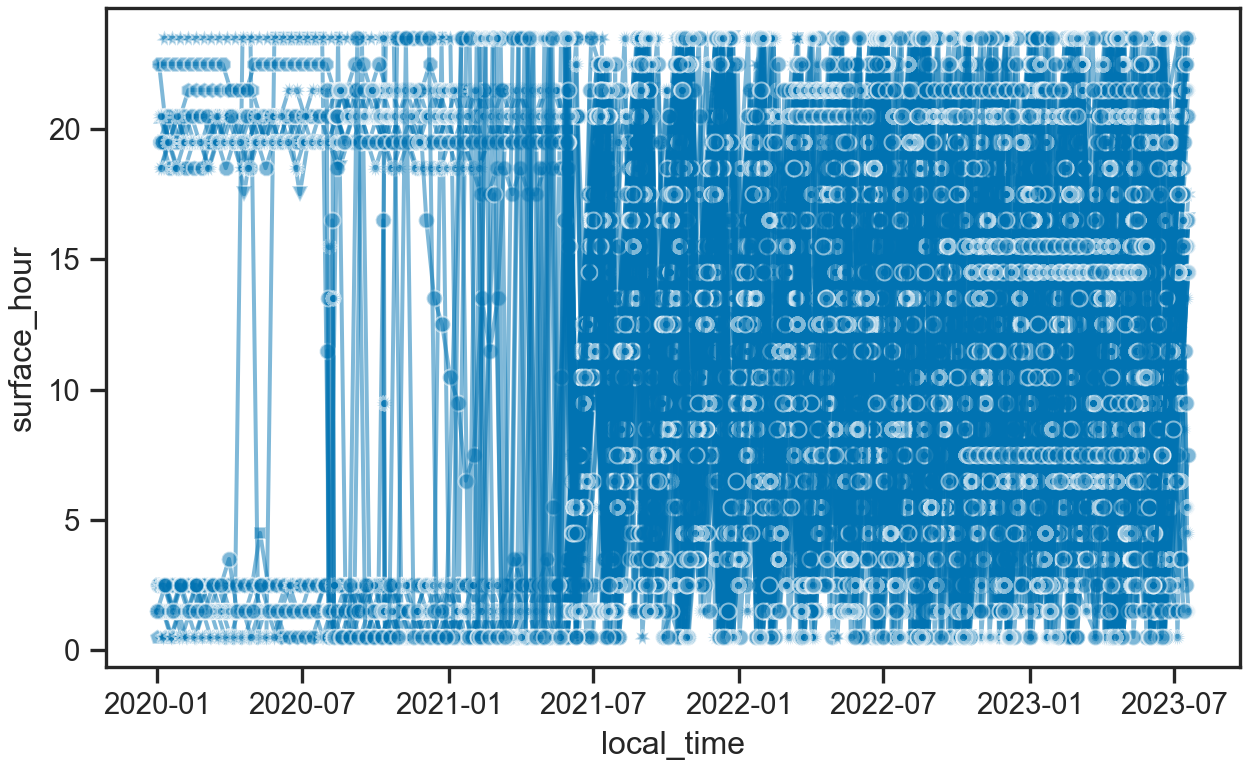
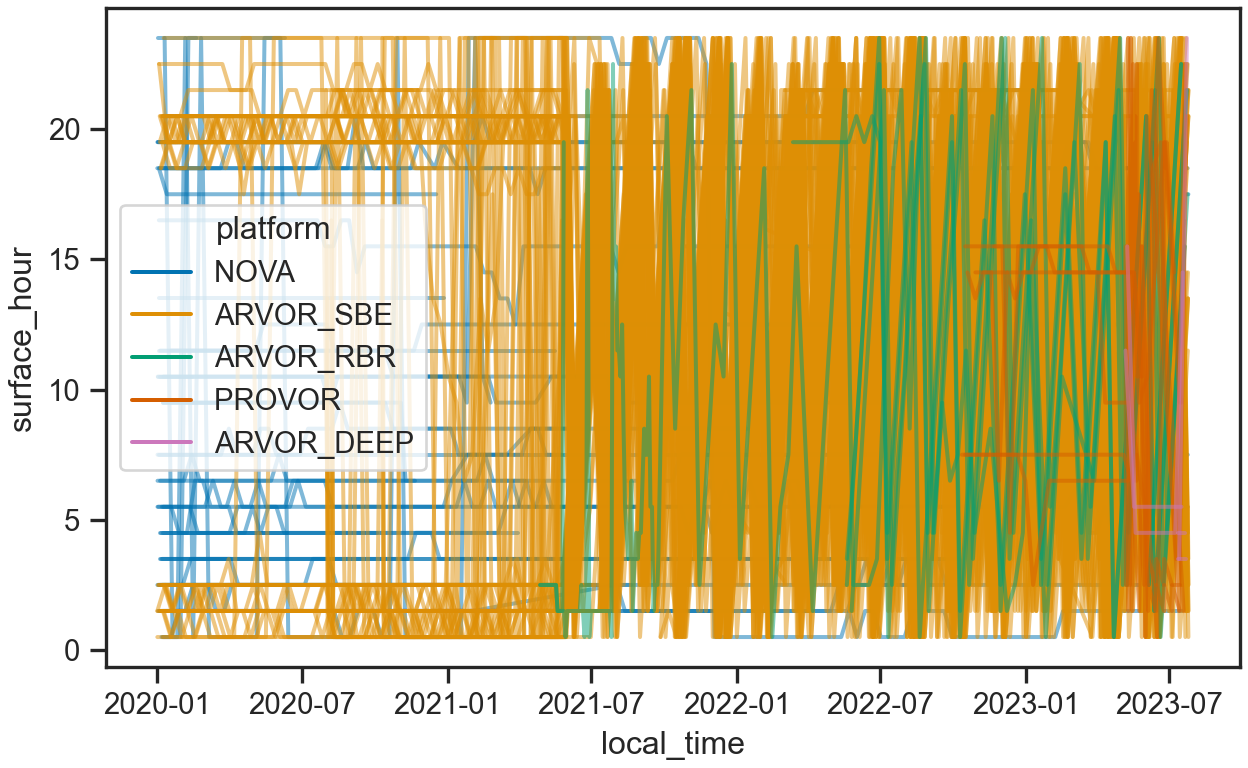
include NOVA floats in analysis

diff --git a/_posts/2023-07-13-diversifying-argo-surfacing-times/diversifying-argo-surfacing-times.html b/_posts/2023-07-13-diversifying-argo-surfacing-times/diversifying-argo-surfacing-times.html
@@ -90,7 +90,7 @@ code span.wa { color: #5e5e5e; font-style: italic; } /* Warning */
   <!--radix_placeholder_meta_tags-->
   <title>Diversifying Argo Surfacing Times</title>
 
-  <meta property="description" itemprop="description" content="Having Argo floats arrive at the surface at diverse local times of day leads exciting results!"/>
+  <meta property="description" itemprop="description" content="Extracting diel cycles using fleet-level data"/>
 
 
   <!--  https://schema.org/Article -->
@@ -101,24 +101,24 @@ code span.wa { color: #5e5e5e; font-style: italic; } /* Warning */
   <!--  https://developers.facebook.com/docs/sharing/webmasters#markup -->
   <meta property="og:title" content="Diversifying Argo Surfacing Times"/>
   <meta property="og:type" content="article"/>
-  <meta property="og:description" content="Having Argo floats arrive at the surface at diverse local times of day leads exciting results!"/>
+  <meta property="og:description" content="Extracting diel cycles using fleet-level data"/>
   <meta property="og:locale" content="en_US"/>
 
   <!--  https://dev.twitter.com/cards/types/summary -->
   <meta property="twitter:card" content="summary"/>
   <meta property="twitter:title" content="Diversifying Argo Surfacing Times"/>
-  <meta property="twitter:description" content="Having Argo floats arrive at the surface at diverse local times of day leads exciting results!"/>
+  <meta property="twitter:description" content="Extracting diel cycles using fleet-level data"/>
 
   <!--/radix_placeholder_meta_tags-->
   <!--radix_placeholder_rmarkdown_metadata-->
 
   <script type="text/json" id="radix-rmarkdown-metadata">
-  {"type":"list","attributes":{"names":{"type":"character","attributes":{},"value":["title","description","author","date","output"]}},"value":[{"type":"character","attributes":{},"value":["Diversifying Argo Surfacing Times"]},{"type":"character","attributes":{},"value":["Having Argo floats arrive at the surface at diverse local times of day leads exciting results!\n"]},{"type":"list","attributes":{},"value":[{"type":"list","attributes":{"names":{"type":"character","attributes":{},"value":["name","url"]}},"value":[{"type":"character","attributes":{},"value":["Christopher Gordon"]},{"type":"character","attributes":{},"value":["https://github.com/cgrdn"]}]}]},{"type":"character","attributes":{},"value":["2023-07-13"]},{"type":"list","attributes":{"names":{"type":"character","attributes":{},"value":["distill::distill_article"]}},"value":[{"type":"list","attributes":{"names":{"type":"character","attributes":{},"value":["self_contained"]}},"value":[{"type":"logical","attributes":{},"value":[false]}]}]}]}
+  {"type":"list","attributes":{"names":{"type":"character","attributes":{},"value":["title","description","author","date","output"]}},"value":[{"type":"character","attributes":{},"value":["Diversifying Argo Surfacing Times"]},{"type":"character","attributes":{},"value":["Extracting diel cycles using fleet-level data\n"]},{"type":"list","attributes":{},"value":[{"type":"list","attributes":{"names":{"type":"character","attributes":{},"value":["name","url"]}},"value":[{"type":"character","attributes":{},"value":["Christopher Gordon"]},{"type":"character","attributes":{},"value":["https://github.com/cgrdn"]}]}]},{"type":"character","attributes":{},"value":["2023-07-13"]},{"type":"list","attributes":{"names":{"type":"character","attributes":{},"value":["distill::distill_article"]}},"value":[{"type":"list","attributes":{"names":{"type":"character","attributes":{},"value":["self_contained"]}},"value":[{"type":"logical","attributes":{},"value":[false]}]}]}]}
   </script>
   <!--/radix_placeholder_rmarkdown_metadata-->
   
   <script type="text/json" id="radix-resource-manifest">
-  {"type":"character","attributes":{},"value":["diversifying-argo-surfacing-times_files/anchor-4.2.2/anchor.min.js","diversifying-argo-surfacing-times_files/bowser-1.9.3/bowser.min.js","diversifying-argo-surfacing-times_files/distill-2.2.21/template.v2.js","diversifying-argo-surfacing-times_files/figure-html5/fig 2-3.png","diversifying-argo-surfacing-times_files/figure-html5/fig 3-5.png","diversifying-argo-surfacing-times_files/figure-html5/fig 3-6.png","diversifying-argo-surfacing-times_files/figure-html5/fig 3-7.png","diversifying-argo-surfacing-times_files/figure-html5/fig 3-8.png","diversifying-argo-surfacing-times_files/figure-html5/fig 3-9.png","diversifying-argo-surfacing-times_files/figure-html5/individual floats-3.png","diversifying-argo-surfacing-times_files/figure-html5/local times-1.png","diversifying-argo-surfacing-times_files/figure-html5/surface time distributions-3.png","diversifying-argo-surfacing-times_files/figure-html5/surface time distributions-5.png","diversifying-argo-surfacing-times_files/figure-html5/surface time distributions-6.png","diversifying-argo-surfacing-times_files/figure-html5/surface time distributions-7.png","diversifying-argo-surfacing-times_files/figure-html5/surface time distributions-8.png","diversifying-argo-surfacing-times_files/figure-html5/surface time distributions-9.png","diversifying-argo-surfacing-times_files/header-attrs-2.23/header-attrs.js","diversifying-argo-surfacing-times_files/jquery-3.6.0/jquery-3.6.0.js","diversifying-argo-surfacing-times_files/jquery-3.6.0/jquery-3.6.0.min.js","diversifying-argo-surfacing-times_files/jquery-3.6.0/jquery-3.6.0.min.map","diversifying-argo-surfacing-times_files/popper-2.6.0/popper.min.js","diversifying-argo-surfacing-times_files/tippy-6.2.7/tippy-bundle.umd.min.js","diversifying-argo-surfacing-times_files/tippy-6.2.7/tippy-light-border.css","diversifying-argo-surfacing-times_files/tippy-6.2.7/tippy.css","diversifying-argo-surfacing-times_files/tippy-6.2.7/tippy.umd.min.js","diversifying-argo-surfacing-times_files/webcomponents-2.0.0/webcomponents.js","Johnson_Bif_figure_2.png"]}
+  {"type":"character","attributes":{},"value":["diversifying-argo-surfacing-times_files/anchor-4.2.2/anchor.min.js","diversifying-argo-surfacing-times_files/bowser-1.9.3/bowser.min.js","diversifying-argo-surfacing-times_files/distill-2.2.21/template.v2.js","diversifying-argo-surfacing-times_files/figure-html5/fig 1-1.png","diversifying-argo-surfacing-times_files/figure-html5/fig 2-1.png","diversifying-argo-surfacing-times_files/figure-html5/fig 2-3.png","diversifying-argo-surfacing-times_files/figure-html5/fig 3-3.png","diversifying-argo-surfacing-times_files/figure-html5/fig 3-5.png","diversifying-argo-surfacing-times_files/figure-html5/fig 3-6.png","diversifying-argo-surfacing-times_files/figure-html5/fig 3-7.png","diversifying-argo-surfacing-times_files/figure-html5/fig 3-8.png","diversifying-argo-surfacing-times_files/figure-html5/fig 3-9.png","diversifying-argo-surfacing-times_files/figure-html5/individual floats-3.png","diversifying-argo-surfacing-times_files/figure-html5/local times-1.png","diversifying-argo-surfacing-times_files/figure-html5/surface time distributions-3.png","diversifying-argo-surfacing-times_files/figure-html5/surface time distributions-5.png","diversifying-argo-surfacing-times_files/figure-html5/surface time distributions-6.png","diversifying-argo-surfacing-times_files/figure-html5/surface time distributions-7.png","diversifying-argo-surfacing-times_files/figure-html5/surface time distributions-8.png","diversifying-argo-surfacing-times_files/figure-html5/surface time distributions-9.png","diversifying-argo-surfacing-times_files/header-attrs-2.23/header-attrs.js","diversifying-argo-surfacing-times_files/jquery-3.6.0/jquery-3.6.0.js","diversifying-argo-surfacing-times_files/jquery-3.6.0/jquery-3.6.0.min.js","diversifying-argo-surfacing-times_files/jquery-3.6.0/jquery-3.6.0.min.map","diversifying-argo-surfacing-times_files/popper-2.6.0/popper.min.js","diversifying-argo-surfacing-times_files/tippy-6.2.7/tippy-bundle.umd.min.js","diversifying-argo-surfacing-times_files/tippy-6.2.7/tippy-light-border.css","diversifying-argo-surfacing-times_files/tippy-6.2.7/tippy.css","diversifying-argo-surfacing-times_files/tippy-6.2.7/tippy.umd.min.js","diversifying-argo-surfacing-times_files/webcomponents-2.0.0/webcomponents.js","Johnson_Bif_figure_2.png"]}
   </script>
   <!--radix_placeholder_navigation_in_header-->
   <!--/radix_placeholder_navigation_in_header-->
@@ -1496,7 +1496,7 @@ code span.wa { color: #5e5e5e; font-style: italic; } /* Warning */
 <!--radix_placeholder_front_matter-->
 
 <script id="distill-front-matter" type="text/json">
-{"title":"Diversifying Argo Surfacing Times","description":"Having Argo floats arrive at the surface at diverse local times of day leads exciting results!","authors":[{"author":"Christopher Gordon","authorURL":"https://github.com/cgrdn","affiliation":"&nbsp;","affiliationURL":"#","orcidID":""}],"publishedDate":"2023-07-13T00:00:00.000-03:00","citationText":"Gordon, 2023"}
+{"title":"Diversifying Argo Surfacing Times","description":"Extracting diel cycles using fleet-level data","authors":[{"author":"Christopher Gordon","authorURL":"https://github.com/cgrdn","affiliation":"&nbsp;","affiliationURL":"#","orcidID":""}],"publishedDate":"2023-07-13T00:00:00.000-03:00","citationText":"Gordon, 2023"}
 </script>
 
 <!--/radix_placeholder_front_matter-->
@@ -1509,7 +1509,7 @@ code span.wa { color: #5e5e5e; font-style: italic; } /* Warning */
 <h1>Diversifying Argo Surfacing Times</h1>
 <!--radix_placeholder_categories-->
 <!--/radix_placeholder_categories-->
-<p><p>Having Argo floats arrive at the surface at diverse local times of day leads exciting results!</p></p>
+<p><p>Extracting diel cycles using fleet-level data</p></p>
 </div>
 
 <div class="d-byline">
@@ -1548,19 +1548,19 @@ code span.wa { color: #5e5e5e; font-style: italic; } /* Warning */
 <span id="cb1-19"><a href="#cb1-19" aria-hidden="true" tabindex="-1"></a>  .<span class="bu">apply</span>(pd.Timestamp, tz<span class="op">=</span><span class="st">&quot;utc&quot;</span>)</span>
 <span id="cb1-20"><a href="#cb1-20" aria-hidden="true" tabindex="-1"></a>meds <span class="op">=</span> meds.loc[meds.date <span class="op">&gt;</span> pd.Timestamp(<span class="st">&quot;01-2020&quot;</span>, tz<span class="op">=</span><span class="st">&quot;utc&quot;</span>)]</span></code></pre></div>
 </div>
-<p>Now that we have loaded all the MEDS profiles from 2020 onward, we have some final subsets to make. MetOcean NOVA floats are still operating for Argo Canada. Because these floats neither have the capacity to define surfacing times, nor update parameters remotely, we will exclude them. The few surviving Teledyne-Webb APEX floats will also be excluded. Finally, recently deployed deep ARVOR floats will be excluded, as their cycle period is defined as an integer number of days rather than in hours. From there, we will calculate the local time using the location data, and python packages <code>timezonefinder</code> and <code>pytz</code>, and visualize local surfacing times over the last 3 years.</p>
+<p>The few surviving MetOcean NOVA floats are included here, but it should be noted that these were not specifically reprogrammed for varied surfacing times. Recently deployed deep ARVOR floats are also included, however their cycle period is defined as an integer number of days rather than in hours, and so those will not produce good diel coverage. Now, we will calculate the local time using the location data, and python packages <code>timezonefinder</code> and <code>pytz</code>, and visualize local surfacing times over the last 3 years.</p>
 <div class="layout-chunk" data-layout="l-body">
 <div class="sourceCode" id="cb2"><pre class="sourceCode python"><code class="sourceCode python"><span id="cb2-1"><a href="#cb2-1" aria-hidden="true" tabindex="-1"></a><span class="im">import</span> timezonefinder</span>
 <span id="cb2-2"><a href="#cb2-2" aria-hidden="true" tabindex="-1"></a>tf <span class="op">=</span> timezonefinder.TimezoneFinder()</span>
 <span id="cb2-3"><a href="#cb2-3" aria-hidden="true" tabindex="-1"></a><span class="im">import</span> pytz</span>
 <span id="cb2-4"><a href="#cb2-4" aria-hidden="true" tabindex="-1"></a></span>
-<span id="cb2-5"><a href="#cb2-5" aria-hidden="true" tabindex="-1"></a><span class="co"># remove NOVA floats, only use NKE floats</span></span>
-<span id="cb2-6"><a href="#cb2-6" aria-hidden="true" tabindex="-1"></a>profiler_type <span class="op">=</span> {</span>
-<span id="cb2-7"><a href="#cb2-7" aria-hidden="true" tabindex="-1"></a>    <span class="st">&quot;836&quot;</span>:<span class="st">&quot;PROVOR   &quot;</span>,</span>
-<span id="cb2-8"><a href="#cb2-8" aria-hidden="true" tabindex="-1"></a>    <span class="st">&quot;844&quot;</span>:<span class="st">&quot;ARVOR_SBE&quot;</span>,</span>
-<span id="cb2-9"><a href="#cb2-9" aria-hidden="true" tabindex="-1"></a>    <span class="st">&quot;878&quot;</span>:<span class="st">&quot;ARVOR_RBR&quot;</span>,</span>
-<span id="cb2-10"><a href="#cb2-10" aria-hidden="true" tabindex="-1"></a>}</span>
-<span id="cb2-11"><a href="#cb2-11" aria-hidden="true" tabindex="-1"></a>meds <span class="op">=</span> meds.loc[meds.profiler_type.isin([<span class="bu">int</span>(p) <span class="cf">for</span> p <span class="kw">in</span> profiler_type.keys()])]</span>
+<span id="cb2-5"><a href="#cb2-5" aria-hidden="true" tabindex="-1"></a>profiler_type <span class="op">=</span> {</span>
+<span id="cb2-6"><a href="#cb2-6" aria-hidden="true" tabindex="-1"></a>    <span class="st">&quot;865&quot;</span>:<span class="st">&quot;NOVA      &quot;</span>,</span>
+<span id="cb2-7"><a href="#cb2-7" aria-hidden="true" tabindex="-1"></a>    <span class="st">&quot;844&quot;</span>:<span class="st">&quot;ARVOR_SBE &quot;</span>,</span>
+<span id="cb2-8"><a href="#cb2-8" aria-hidden="true" tabindex="-1"></a>    <span class="st">&quot;878&quot;</span>:<span class="st">&quot;ARVOR_RBR &quot;</span>,</span>
+<span id="cb2-9"><a href="#cb2-9" aria-hidden="true" tabindex="-1"></a>    <span class="st">&quot;838&quot;</span>:<span class="st">&quot;ARVOR_DEEP&quot;</span>,</span>
+<span id="cb2-10"><a href="#cb2-10" aria-hidden="true" tabindex="-1"></a>    <span class="st">&quot;836&quot;</span>:<span class="st">&quot;PROVOR    &quot;</span>,</span>
+<span id="cb2-11"><a href="#cb2-11" aria-hidden="true" tabindex="-1"></a>}</span>
 <span id="cb2-12"><a href="#cb2-12" aria-hidden="true" tabindex="-1"></a></span>
 <span id="cb2-13"><a href="#cb2-13" aria-hidden="true" tabindex="-1"></a><span class="co"># exclude invalid locations</span></span>
 <span id="cb2-14"><a href="#cb2-14" aria-hidden="true" tabindex="-1"></a>meds <span class="op">=</span> meds.loc[(meds.latitude.notna()) <span class="op">&amp;</span> (meds.longitude.notna())]</span>
@@ -1578,10 +1578,14 @@ code span.wa { color: #5e5e5e; font-style: italic; } /* Warning */
 <span id="cb2-26"><a href="#cb2-26" aria-hidden="true" tabindex="-1"></a>meds[<span class="st">&quot;platform&quot;</span>] <span class="op">=</span> [profiler_type[<span class="ss">f&quot;</span><span class="sc">{</span>p<span class="sc">}</span><span class="ss">&quot;</span>] <span class="cf">for</span> p <span class="kw">in</span> meds.profiler_type]</span>
 <span id="cb2-27"><a href="#cb2-27" aria-hidden="true" tabindex="-1"></a></span>
 <span id="cb2-28"><a href="#cb2-28" aria-hidden="true" tabindex="-1"></a>fig, ax <span class="op">=</span> plt.subplots(dpi<span class="op">=</span><span class="dv">300</span>, constrained_layout<span class="op">=</span><span class="va">True</span>)</span>
-<span id="cb2-29"><a href="#cb2-29" aria-hidden="true" tabindex="-1"></a>sns.lineplot(data<span class="op">=</span>meds, x<span class="op">=</span><span class="st">&quot;local_time&quot;</span>, y<span class="op">=</span><span class="st">&quot;surface_hour&quot;</span>, style<span class="op">=</span><span class="st">&quot;WMO&quot;</span>, </span>
-<span id="cb2-30"><a href="#cb2-30" aria-hidden="true" tabindex="-1"></a>  dashes<span class="op">=</span><span class="va">False</span>, legend<span class="op">=</span><span class="va">False</span>, alpha<span class="op">=</span><span class="fl">0.5</span>, markers<span class="op">=</span><span class="va">True</span>, ax<span class="op">=</span>ax</span>
-<span id="cb2-31"><a href="#cb2-31" aria-hidden="true" tabindex="-1"></a>)</span></code></pre></div>
-<p><img src="diversifying-argo-surfacing-times_files/figure-html5/local%20times-1.png" width="624" /></p>
+<span id="cb2-29"><a href="#cb2-29" aria-hidden="true" tabindex="-1"></a>sns.lineplot(data<span class="op">=</span>meds, x<span class="op">=</span><span class="st">&quot;local_time&quot;</span>, y<span class="op">=</span><span class="st">&quot;surface_hour&quot;</span>, hue<span class="op">=</span><span class="st">&quot;platform&quot;</span>, </span>
+<span id="cb2-30"><a href="#cb2-30" aria-hidden="true" tabindex="-1"></a>  units<span class="op">=</span><span class="st">&quot;WMO&quot;</span>, estimator<span class="op">=</span><span class="va">None</span>, alpha<span class="op">=</span><span class="fl">0.25</span>, ax<span class="op">=</span>ax</span>
+<span id="cb2-31"><a href="#cb2-31" aria-hidden="true" tabindex="-1"></a>)</span>
+<span id="cb2-32"><a href="#cb2-32" aria-hidden="true" tabindex="-1"></a>sns.move_legend(ax, <span class="st">&quot;upper left&quot;</span>, bbox_to_anchor<span class="op">=</span>(<span class="dv">1</span>, <span class="dv">1</span>))</span>
+<span id="cb2-33"><a href="#cb2-33" aria-hidden="true" tabindex="-1"></a>plt.setp(ax.get_xticklabels(), ha<span class="op">=</span><span class="st">&quot;right&quot;</span>, rotation<span class="op">=</span><span class="dv">45</span>)</span></code></pre></div>
+</div>
+<div class="layout-chunk" data-layout="l-body">
+<p><img src="diversifying-argo-surfacing-times_files/figure-html5/fig%201-1.png" width="624" /></p>
 </div>
 <p>The above plot is very busy, but clearly shows a shift in regime in mid-2021 when we began reprogramming all new deployments as well as existing floats via remote commands. For NKE ARVOR floats, which constitute most of the Canadian fleet, we set the cycle period to 245 hours, or 10 days + 5 hours. This creates diel coverage relatively quickly, without sampling at times near each other on subsequent profiles. NKE PROVOR floats were slightly trickier to reprogram, as instead of a cycle period they have a surface time they aim to achieve. This parameter therefore must be reprogrammed every cycle. This is achieved by running a daily github action powered by python, which you can find on the <a href="https://github.com/ArgoCanada/provor-auto-param-update">ArgoCanada github page</a>.</p>
 <p>To better understand the timing, lets look closely at an ARVOR float that was deployed in late 2020 and reprogrammed, and a PROVOR float that gets a new command each cycle.</p>
@@ -1612,17 +1616,18 @@ code span.wa { color: #5e5e5e; font-style: italic; } /* Warning */
 <div class="layout-chunk" data-layout="l-body">
 <div class="sourceCode" id="cb4"><pre class="sourceCode python"><code class="sourceCode python"><span id="cb4-1"><a href="#cb4-1" aria-hidden="true" tabindex="-1"></a><span class="co"># create column for profile year</span></span>
 <span id="cb4-2"><a href="#cb4-2" aria-hidden="true" tabindex="-1"></a>meds[<span class="st">&quot;year&quot;</span>] <span class="op">=</span> [d.year <span class="cf">for</span> d <span class="kw">in</span> meds.local_time]</span>
-<span id="cb4-3"><a href="#cb4-3" aria-hidden="true" tabindex="-1"></a><span class="co"># create a FacetGrid that will plot by year, 2020, 2021, 2022, 2023</span></span>
-<span id="cb4-4"><a href="#cb4-4" aria-hidden="true" tabindex="-1"></a>g <span class="op">=</span> sns.displot(</span>
-<span id="cb4-5"><a href="#cb4-5" aria-hidden="true" tabindex="-1"></a>  meds, x<span class="op">=</span><span class="st">&quot;surface_hour&quot;</span>, col<span class="op">=</span><span class="st">&quot;year&quot;</span>, hue<span class="op">=</span><span class="st">&quot;platform&quot;</span>, </span>
-<span id="cb4-6"><a href="#cb4-6" aria-hidden="true" tabindex="-1"></a>  kind<span class="op">=</span><span class="st">&quot;hist&quot;</span>, bins<span class="op">=</span><span class="bu">list</span>(<span class="bu">range</span>(<span class="dv">24</span>)), multiple<span class="op">=</span><span class="st">&quot;stack&quot;</span>, </span>
-<span id="cb4-7"><a href="#cb4-7" aria-hidden="true" tabindex="-1"></a>  col_wrap<span class="op">=</span><span class="dv">2</span>, facet_kws<span class="op">=</span><span class="bu">dict</span>(despine<span class="op">=</span><span class="va">False</span>, sharey<span class="op">=</span><span class="va">False</span>)</span>
-<span id="cb4-8"><a href="#cb4-8" aria-hidden="true" tabindex="-1"></a>)</span>
-<span id="cb4-9"><a href="#cb4-9" aria-hidden="true" tabindex="-1"></a>g.fig.set_dpi(<span class="dv">300</span>)</span>
-<span id="cb4-10"><a href="#cb4-10" aria-hidden="true" tabindex="-1"></a>g.fig.set_constrained_layout(<span class="va">True</span>)</span></code></pre></div>
+<span id="cb4-3"><a href="#cb4-3" aria-hidden="true" tabindex="-1"></a>meds <span class="op">=</span> meds.loc[meds.year <span class="op">&gt;</span> <span class="dv">2019</span>] <span class="co"># 2 floats have local times in 2019</span></span>
+<span id="cb4-4"><a href="#cb4-4" aria-hidden="true" tabindex="-1"></a><span class="co"># create a FacetGrid that will plot by year, 2020, 2021, 2022, 2023</span></span>
+<span id="cb4-5"><a href="#cb4-5" aria-hidden="true" tabindex="-1"></a>g <span class="op">=</span> sns.displot(</span>
+<span id="cb4-6"><a href="#cb4-6" aria-hidden="true" tabindex="-1"></a>  meds, x<span class="op">=</span><span class="st">&quot;surface_hour&quot;</span>, col<span class="op">=</span><span class="st">&quot;year&quot;</span>, hue<span class="op">=</span><span class="st">&quot;platform&quot;</span>, </span>
+<span id="cb4-7"><a href="#cb4-7" aria-hidden="true" tabindex="-1"></a>  kind<span class="op">=</span><span class="st">&quot;hist&quot;</span>, bins<span class="op">=</span><span class="bu">list</span>(<span class="bu">range</span>(<span class="dv">24</span>)), multiple<span class="op">=</span><span class="st">&quot;stack&quot;</span>, </span>
+<span id="cb4-8"><a href="#cb4-8" aria-hidden="true" tabindex="-1"></a>  col_wrap<span class="op">=</span><span class="dv">2</span>, facet_kws<span class="op">=</span><span class="bu">dict</span>(despine<span class="op">=</span><span class="va">False</span>, sharey<span class="op">=</span><span class="va">False</span>)</span>
+<span id="cb4-9"><a href="#cb4-9" aria-hidden="true" tabindex="-1"></a>)</span>
+<span id="cb4-10"><a href="#cb4-10" aria-hidden="true" tabindex="-1"></a>g.fig.set_dpi(<span class="dv">300</span>)</span>
+<span id="cb4-11"><a href="#cb4-11" aria-hidden="true" tabindex="-1"></a>g.fig.set_constrained_layout(<span class="va">True</span>)</span></code></pre></div>
 </div>
 <div class="layout-chunk" data-layout="l-body">
-<p><img src="diversifying-argo-surfacing-times_files/figure-html5/fig%203-5.png" width="1104" /></p>
+<p><img src="diversifying-argo-surfacing-times_files/figure-html5/fig%203-5.png" width="1112" /></p>
 </div>
 <p>The above figure shows the progression of the Canadian Argo fleet over the years. Blue bars correspond to ARVOR floats with Seabird CTDs, orange bars to ARVOR floats with RBR CTDs and green bars to PROVOR floats. In the 2020 panel, there are two peaks, one representing local times in the Eastern Pacific, and the other in the Western Atlantic. In 2021 these peaks persist, but for roughly half the year we have good coverage. In 2022, some peaks remain as the final floats still operating on 240 hour cycles are reprogrammed. In the final panel, we see that the fleet operates well to cover the entire day. There are slight biases toward 0600-0700 and 1400-1500 local times in the PROVOR floats (green bars) as the live reprogramming was not active until May this year, but those profiles are now being well distributed. Overall, almost all recent profiles recorded by Argo Canada floats should now meet the statistical criteria to be able to construct diel cycles as in <a href="https://doi.org/10.1029/2012JC007883">Gille (2012)</a>, <a href="https://doi.org/10.1038/s41561-021-00807-z">Johnson and Bif (2021)</a>, and <a href="https://doi.org/10.1002/lol2.10295">Stoer and Fennel (2022)</a>.</p>
 <h1 id="references">References</h1>
